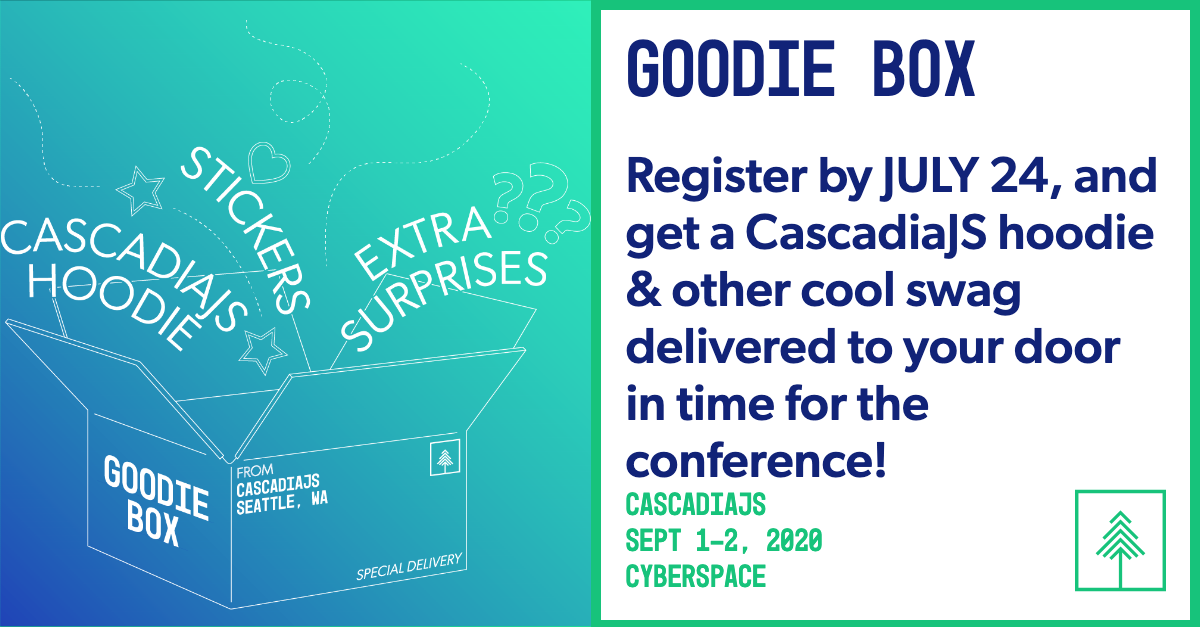
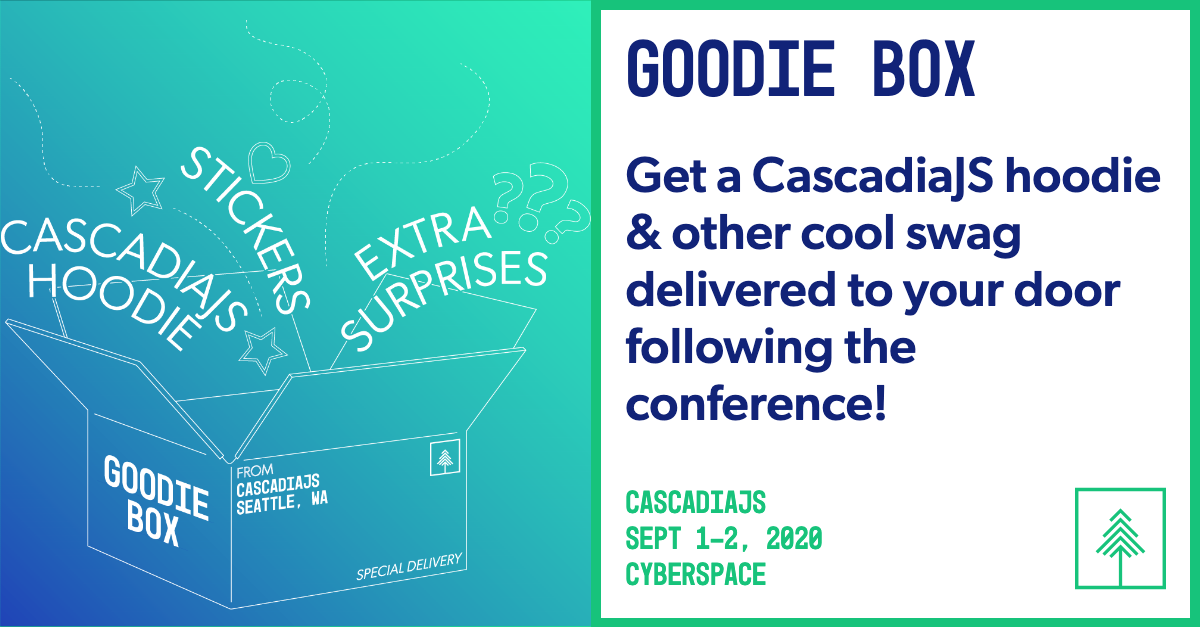
kotis / goodie box tweaks

Changed region(s): [[0.5242, 0.2424, 0.9867, 0.9394], [0.5242, 0.8182, 0.9867, 1.0], [0.8942, 0.7576, 0.9867, 0.7879]]

diff --git a/src/views/pages/content/goodie-box.md b/src/views/pages/content/goodie-box.md
@@ -1,7 +1,7 @@
 ---
 title: Goodie Box
 image: /images/goodie-box.png
-excerpt: Get a CascadiaJS hoodie & other cool swag delivered to your door in time for the conference!
+excerpt: Get a CascadiaJS hoodie & other cool swag delivered to your door following the conference!
 ---
 Every conference attendee will recieve an awesome Goodie Box that will include a conference hoodie and other fun swag. Here's some important information for how these Goodie Boxes are being delivered to your home.
 

diff --git a/src/views/pages/content/kotis-design.md b/src/views/pages/content/kotis-design.md
@@ -1,6 +1,6 @@
 ---
 title: Kotis Design
-image: /images/sponsors/kotis-design-logo-black.svg
+image: /images/goodie-box.png
 excerpt: Make better swag. Manage swag better.
 ---
 ![Kotis Design logo](/images/sponsors/kotis-design-logo-black.svg)
